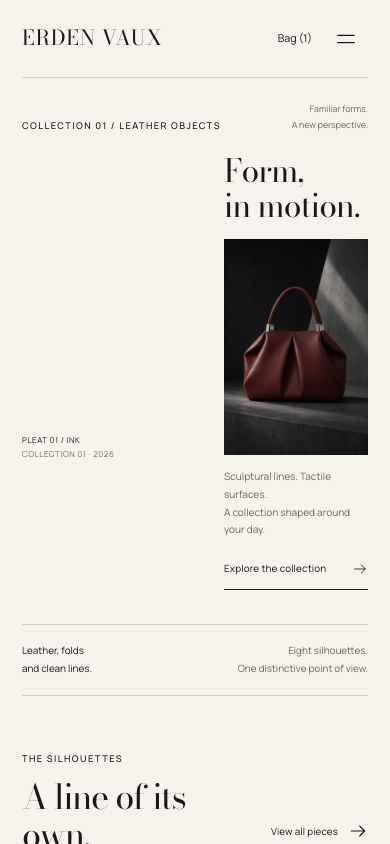
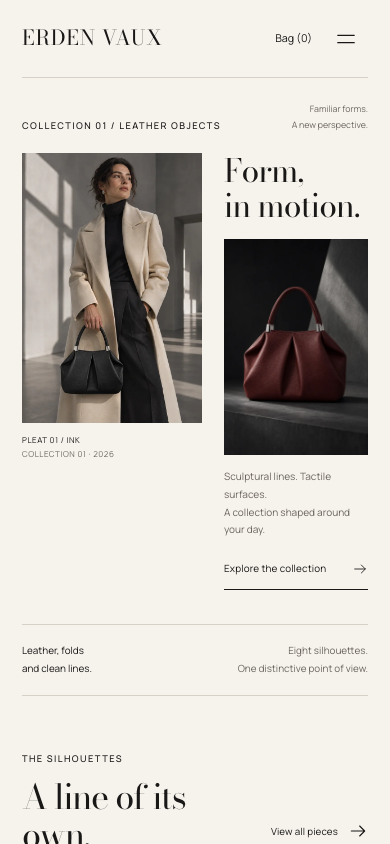
Make the verified ErdenVaux demo and its engineering evidence easy to inspect
Link the public application after anonymous browser verification, document real payload measurements and state boundaries, and retain the exact scope of automated and physical-device checks.

Confidence: high
Scope-risk: narrow
Tested: Public27-check Chromium/WebKit/touch suite; live campaign captures; custom404 navigation; direct product HTML; sitemap/media; formatting; lint
Not-tested: Physical mobile devices and screen readers; development-only lint advisories remain documented

Changed region(s): [[0.0308, 0.154, 0.5231, 0.5237], [0.7077, 0.0308, 0.8, 0.0616]]

diff --git a/README.md b/README.md
@@ -1,7 +1,62 @@
-# ErdenVaux
+# ErdenVaux — Form, in motion.
 
-An original fictional luxury bags application created in November 2026. The independent Next.js portfolio demo is being built around eight imagined silhouettes, accurate variant imagery, a persistent bag/wishlist and a complete local checkout simulation. No real purchase or payment is made.
+An original fictional luxury bags application created in **November 2026**. Eight sculptural silhouettes, ten matching variants, and a complete demo shopping journey built with Next.js App Router, React, strict TypeScript and Zustand.
 
-Node 22.23.1 and npm 10.9.8. Run `npm ci` and `npm run dev` inside this repository. Static GitHub Pages hosting is planned under `/erdenvaux-bags-next/`.
+![ErdenVaux fashion campaign](docs/screenshots/home-desktop.png)
 
-The delivery plan is in [docs/IMPLEMENTATION_PLAN.md](docs/IMPLEMENTATION_PLAN.md). Verification evidence and the public demo will be recorded after completion.
+[Source](https://github.com/khalilBenAli1/erdenvaux-bags-next) · [Quality and deployment](https://github.com/khalilBenAli1/erdenvaux-bags-next/actions) · [Architecture](docs/ARCHITECTURE.md) · [Asset provenance](ASSETS.md)
+
+**[Open the live demo](https://khalilbenali1.github.io/erdenvaux-bags-next/)** — anonymously verified in Chromium, WebKit and touch emulation. [Delivery evidence](docs/DELIVERY.md).
+
+## Explore
+
+- An original asymmetric paired-portrait fashion campaign, Bodoni Moda display type, Manrope interface type, fine rules and ivory/ink/oxblood surfaces.
+- Collection filters for silhouette, material, colour and price; sorting, empty/reset states, composed same-turn URL changes, Back and reload.
+- Eight exported product routes with accurate variant imagery/materials, stock limits, quantities, saved pieces and a keyboard gallery. Detail frames are explicitly crops of the same photograph.
+- A common-scale SVG comparison using actual fixture body centimetres, visible width/height/depth labels and a 10cm ruler. Handles are excluded from body dimensions.
+- A variant-aware persistent bag/wishlist with versioned validation, corrupt/unknown/blocked-storage recovery and a brand-specific key that preserves other demos’ saved data.
+- Delivery, validated sample details, review and a **demo confirmation**. No cards, payment, purchase or external message. Contact details remain in feature memory; the confirmation stays fixed after bag/reset changes and clears when you leave or reload.
+- Page metadata, social imagery, sitemap, direct routes, reduced motion, keyboard/focus behavior and a deliberate404.
+
+These are **fictional product concepts and illustrative prices/stock**, not a trading business or client commission. No heritage, awards, testimonials, real availability or manufacturing assurances are invented.
+
+## Run
+
+Node **22.23.1**, npm **10.9.8**, and the committed lockfile. No account, API key, backend or paid service is required.
+
+```sh
+nvm install
+npm ci
+npm run dev
+```
+
+Open `http://127.0.0.1:4202/erdenvaux-bags-next/`. Production preview uses `npm run build` followed by `npm run preview`. The preview serves actual exported files and directory routes rather than an SPA fallback.
+
+```sh
+npm run lint
+npm run format:check
+npm run typecheck
+npm test
+npm run build
+npx playwright install chromium webkit
+npm run test:e2e
+node scripts/measure-build.mjs
+```
+
+`npm test` runs 48 domain/adapter/store tests. The 27 browser checks cover Chromium, WebKit and a touch-emulated Pixel configuration, including native taps, a full shopping/confirmation journey, stock, wishlist reload, shared-origin reset isolation, rapid filters, delayed native close, focus, all exported HTML routes, Axe, reduced motion, strict `clientWidth` at 320/390/768/1440, maximum valid contact content and exact idempotent 200% critical text.
+
+Use **Reset demo selections** in the footer to clear this app’s bag and wishlist. It leaves other apps’ storage keys and an already displayed confirmation unchanged. The preview checkout accepts sample details only and persists none of them.
+
+## Engineering and evidence
+
+Pages compose focused catalog, product, bag and checkout features. Pure pricing/stock/validation/snapshot rules stay outside React; storage stays behind its adapter. A Zustand factory creates each provider’s state independently, with after-mount restoration and no mutable customer state shared by server requests. See [data flow and boundaries](docs/ARCHITECTURE.md).
+
+Real production captures: [mobile campaign](docs/screenshots/home-mobile.png), [product](docs/screenshots/product-desktop.png), [size comparison](docs/screenshots/size-guide-desktop.png), [bag](docs/screenshots/bag-desktop.png), [checkout desktop](docs/screenshots/checkout-desktop.png), [checkout mobile](docs/screenshots/checkout-mobile.png). The approved campaign’s internal visual verdict is 95/100; this is not an accessibility certification or Lighthouse score.
+
+[Actual payload measurements](docs/PERFORMANCE.md) include generated HTML/JavaScript/CSS, original WebP imagery and the two self-hosted WOFF2 files. [Toolchain notes](docs/TOOLCHAIN.md) explain the maintained lint configuration and documented development-only advisories.
+
+## Scope and licenses
+
+Original code is [MIT](LICENSE). Font SIL OFL notices and photography provenance are included in [ASSETS.md](ASSETS.md). No third-party storefront assets or private client implementation were copied.
+
+The WCAG 2.2 AA target is supported by rendered Axe and keyboard checks; physical device/screen-reader testing was not performed. The common unquoted email format is validated without DNS/network lookup. The production dependency audit reports zero vulnerabilities; twelve moderate development lint dependency advisories remain documented. No real commerce is connected.

diff --git a/docs/ARCHITECTURE.md b/docs/ARCHITECTURE.md
@@ -1,0 +1,37 @@
+# Architecture and data flow
+
+ErdenVaux is a fictional portfolio application, created November 2026. Next.js 16.4.4 exports static HTML and navigation payloads; GitHub Pages needs no runtime application server. The store and checkout use browser-local behavior without an API or payment integration.
+
+## Responsibilities
+
+`src/data/products.ts` defines eight typed products and ten variants matching the approved media brief. A contract test verifies names, identities, materials, colours, cents, body dimensions, stock and local image files. Product photos keep 4:5 frames; campaigns keep 2:3. No unrelated photo stands in for another product or view.
+
+`src/domain/` owns pure stock/quantity transitions, selection identity, integer-cent totals, delivery fixtures, common email/contact validation, persisted-envelope validation and immutable confirmation creation. It imports no React, DOM or storage. Prices are resolved from catalog fixtures rather than accepted from saved data.
+
+`src/state/commerce-store.ts` creates a new Zustand vanilla store for every provider. Arrays are copied at initialization and restoration. Cart/wishlist selectors expose source state; counts, line amounts and totals are derived. `CommerceProvider` restores only after mounting so the server and first client render agree. Server Components never read or mutate customer selections.
+
+`src/adapters/persistence.ts` owns the storage boundary. Only `erdenvaux-selections-v1` is read/written, and only a versioned cart/wishlist envelope is serialized. IDs, variant identity, safe integer quantities, current stock, duplicate keys, allowed fields and size bounds are checked. Malformed/unknown versions recover to a fresh selection; unavailable storage keeps the current visit usable. No clear-all call or unrelated-key enumeration is used. A browser sentinel proves another demo’s key survives reset.
+
+`src/hooks/use-url-state.ts` publishes a stable search-string snapshot with an empty server snapshot. Each event reads the current browser URL before synchronously pushing/replacing and notifying subscribers. Rapid same-turn filters compose correctly rather than deriving from a stale render snapshot. Back/reload remain meaningful.
+
+`src/components/ui/Dialog.tsx` owns controlled native modal behavior. Explicit button, backdrop or cancel intent changes the caller’s local state. Passive native `close` events do not drive that state, so an old queued close cannot dismiss a reopened view. Opening controls explicitly focus themselves for WebKit parity; Tab/Escape and opener restoration are exercised in browser tests. Transform-only motion retains stable contrast and respects reduced motion.
+
+`src/features/` separates collection controls/cards, product selection/gallery, bag/wishlist, and focused delivery/details/review/confirmation steps. Routes retrieve data and compose these features. Temporary dialogs, quantity requests and form inputs remain local. Contact fields and confirmation are never persisted.
+
+The checkout hook validates details before review. `createConfirmation` copies and freezes customer, line, delivery and totals data before clearing the shared bag. The rendered outcome reads that snapshot, not the newly emptied store. Resetting shared selections cannot alter it.
+
+## Rendering and graphics
+
+`output: 'export'`, `basePath: '/erdenvaux-bags-next'` and `trailingSlash: true` generate eight direct product routes and supporting pages. The preview serves those actual files, including a404 fallback. Next links receive the configured base automatically; local image paths include it explicitly. `next/image` is unoptimized for static hosting, inside a picture source with real 640/1200px candidates. No image optimization server is required.
+
+The comparison uses a common five SVG units per centimetre, baseline 230 and a 50-unit 10 cm ruler. Body bounding boxes match the fixture width/height; visible HTML also gives depth. Handles are illustrative and excluded. Browser geometry checks verify actual SVG bounds and the shared screen transform.
+
+SVG title/description metadata uses one string child. React 19 otherwise renders an interpolated title array as empty SSR title markup and produces a hydration mismatch. A cold export and default/query renders in Chromium/WebKit were checked after this fix; IDs and geometry were retained. [React’s primary title guidance](https://react.dev/reference/react-dom/components/title#use-variables-in-the-title).
+
+Bodoni Moda and Manrope are self-hosted through Next local fonts with OFL notices. The full rendered UI uses these two intentional families. [Asset provenance](../ASSETS.md) documents the original generated imagery and researched official references.
+
+## Verified limits
+
+The release matrix includes 48 unit tests and 27 browser checks across Chromium, WebKit and touch emulation: buying simulation, stock/cents, strict stored-field mutations and blocked/corrupt data, store isolation, saved variant reload, unrelated-key reset survival, rapid URL updates, late native close, SVG scale, keyboard/focus, Axe, all direct HTML routes and assets, reduced motion, clientWidth reflow and exact 200% critical text with maximum valid content.
+
+Physical devices and screen readers remain unverified. The form supports common unquoted email addresses with explicit length/character checks, not a complete RFC/DNS service. Generated imagery is conceptual. No real purchase, delivery or external submission occurs. Development-only dependency advisories are recorded in [TOOLCHAIN.md](TOOLCHAIN.md).

diff --git a/docs/PERFORMANCE.md b/docs/PERFORMANCE.md
@@ -1,0 +1,27 @@
+# Actual production payloads
+
+Measured from the local production export in November 2026 using `npm run build` and `node scripts/measure-build.mjs`. Gzip values are local compression estimates, not promised network transfer sizes or Lighthouse scores. Chunk names and small byte differences may change with build metadata/toolchain versions.
+
+| Export category                                  | Files | Raw bytes |   Local gzip bytes |
+| ------------------------------------------------ | ----: | --------: | -----------------: |
+| All JavaScript chunks                            |    19 |   672,385 |            209,105 |
+| CSS                                              |     5 |    35,552 |              8,954 |
+| Generated HTML, including framework error copies |    18 |   445,034 |             93,245 |
+| Static navigation/route payloads                 |    65 |   445,302 |            129,700 |
+| Responsive WebP imagery                          |    24 | 1,056,432 | Already compressed |
+| Self-hosted WOFF2                                |     2 |    71,096 | Already compressed |
+
+There are sixteen logical HTML routes in the browser audit; the export also contains framework error-route copies. All eight product paths are generated individually.
+
+| Representative route | HTML bytes | Modern initial JavaScript references | JS raw bytes | JS local gzip bytes |
+| -------------------- | ---------: | -----------------------------------: | -----------: | ------------------: |
+| Home                 |     31,798 |                                    8 |      503,475 |             151,613 |
+| Collection           |     27,798 |                                    8 |      508,310 |             153,107 |
+| Pleat 01             |     31,888 |                                    8 |      511,244 |             153,846 |
+| Checkout             |     15,463 |                                    8 |      517,328 |             155,309 |
+
+These per-route values count unique modern script references in generated HTML, excluding `nomodule` scripts. They do not count later prefetch/navigation requests as initial scripts. Next/React provide the framework baseline; route-specific client features add to it. The static HTML/navigation payloads are reported separately rather than pretending that a stateful shopping app ships no JavaScript.
+
+The largest image is the 1200×1800 Oxblood campaign portrait at 138,106 bytes. Full product images are 1200×1500, small products 640×800; campaigns are 2:3. The complete 24-image set totals about 1.01 MiB, while visitors select responsive candidates rather than download every size. Gallery details reuse their selected variant’s photograph.
+
+Bodoni Moda WOFF2 is 46,260 bytes; Manrope is 24,836 bytes. Both are local/preloaded by Next’s font support; no external font service is requested. Main campaign/product images are eager, other media is lazy, and intrinsic dimensions reserve layout space. No real-device speed score is claimed.

diff --git a/docs/DELIVERY.md b/docs/DELIVERY.md
@@ -1,0 +1,21 @@
+# Verified delivery
+
+ErdenVaux is an original fictional luxury bags application created in November 2026.
+
+- [Public demo](https://khalilbenali1.github.io/erdenvaux-bags-next/)
+- [Public source](https://github.com/khalilBenAli1/erdenvaux-bags-next)
+- [Feature PR](https://github.com/khalilBenAli1/erdenvaux-bags-next/pull/1), normal-merged with milestone history preserved
+- Verified application merge: `b0a07fd5554240c6f1a9afc249222b5571afa793`
+- [Successful quality and Pages deployment](https://github.com/khalilBenAli1/erdenvaux-bags-next/actions/runs/41589111622)
+
+## Evidence
+
+A clean pinned install and required lint peer graph, lint/format checking, strict type generation/TypeScript, 48 unit tests, cold static export, and all 27 browser checks passed before the candidate was merged. Main repeated those checks before Pages publication.
+
+All 27 checks were then run against the actual public URL and passed in Chromium, WebKit and touch-emulated Chromium in 49.6 seconds. This includes discovery/variant/stock/quantity/selection persistence, wishlist reload, a complete delivery/details/review/demo confirmation, no contact payload or mutation request, immutable confirmation after reset, another demo’s storage sentinel, rapid same-turn URL updates, late native close after reopening, actual SVG bounds and shared scale, keyboard/focus, native taps, reduced motion, Axe, all 16 logical HTML routes/assets, clientWidth at 320/390/768/1440, maximum valid details and exact 200% critical text.
+
+Independent cold/default/query verification in Chromium and WebKit confirmed populated SVG metadata and no hydration errors. Additional public checks confirmed anonymous direct product HTML, sitemap/media access, a real HTTP404 for an unknown path and working navigation back to the collection. Fonts and local images load without broken requests.
+
+The live default campaign captures are [desktop](screenshots/home-desktop.png) and [mobile](screenshots/home-mobile.png). Other actual production captures show [product](screenshots/product-desktop.png), [comparison](screenshots/size-guide-desktop.png), [bag](screenshots/bag-desktop.png) and [checkout desktop](screenshots/checkout-desktop.png)/[mobile](screenshots/checkout-mobile.png). The campaign’s internal visual verdict is 95/100; it is not a performance or accessibility certification.
+
+[Architecture](ARCHITECTURE.md), [real payload measurements](PERFORMANCE.md), [toolchain limitations](TOOLCHAIN.md) and [asset/font provenance](../ASSETS.md) are included. No external deployment blocker remains. Physical device/screen-reader verification was not performed. Twelve moderate development lint advisories remain; the production dependency audit reports zero. No real commerce is connected.

diff --git a/docs/TOOLCHAIN.md b/docs/TOOLCHAIN.md
@@ -2,6 +2,6 @@
 
 Next.js 16.4.4, React 19.3.1, Zustand 5.0.16 and TypeScript 6.0.3 use Node 22.23.1 and npm 10.9.8. Versions are exact in the manifest/lockfile, and peer resolution is explicitly non-legacy in repository config.
 
-The [official Next.js ESLint guide](https://nextjs.org/docs/app/api-reference/config/eslint) supports ESLint 10, but documents stale peer declarations in some plugins bundled by `eslint-config-next`. We use the official `@next/eslint-plugin-next` directly with its recommended/Core Web Vitals rules, current TypeScript ESLint recommended rules and current React Hooks recommended rules. This keeps a maintained ESLint10 baseline and valid required peer graph, without forced dependency metadata or an end-of-life linter. `npm ci` and `npm ls` are checked explicitly. Rendered accessibility is additionally verified through Axe and keyboard journeys.
+The [official Next.js ESLint guide](https://nextjs.org/docs/app/api-reference/config/eslint) supports ESLint 10, but documents stale peer declarations in some plugins bundled by `eslint-config-next`. We use the official `@next/eslint-plugin-next` directly with its recommended/Core Web Vitals rules, current TypeScript ESLint recommended rules and current React Hooks recommended rules. This keeps a maintained ESLint 10 baseline and valid required peer graph, without forced dependency metadata or an end-of-life linter. `npm ci` and `npm ls` are checked explicitly. Rendered accessibility is additionally verified through Axe and keyboard journeys.
 
 At setup, `npm audit --omit=dev` reports zero vulnerabilities. The complete audit reports moderate minimatch glob-amplification advisories in development lint dependencies. These tools consume repository file patterns, not public request inputs. No force-downgrade or incompatible global dependency override hides those findings. The exact result is rechecked at release.
